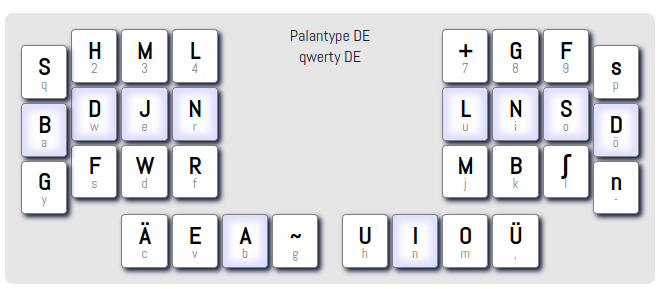
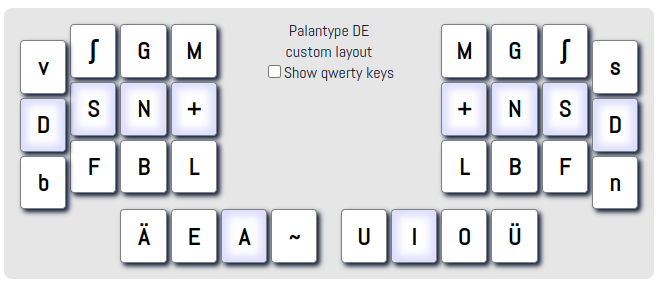
v 0.3.0 with symmetric keyboard layout

diff --git a/plover_palantype_DE/system.py b/plover_palantype_DE/system.py
@@ -3,13 +3,13 @@ from plover.system import english_stenotype
 # cf. https://plover.readthedocs.io/en/4.0.0-dev8/api/system.html
 
 KEYS = (
-    'S-', 'B-', 'G-', 'H-', 'D-', 'F-', 'M-', 'J-', 'W-', 'L-', 'N-', 'R-',
+    'v-', 'D-', 'b-', 'ʃ-', 'S-', 'F-', 'G-', 'N-', 'B-', 'M-', '+-', 'L-',
     'Ä-', 'E-', 'A-', '~-',
     '-U', '-I', '-O', '-Ü',
-    '-+', '-L', '-M', '-G', '-N', '-B', '-F', '-S', '-ʃ', '-s', '-D', '-n'
+    '-M', '-+', '-L', '-G', '-N', '-B', '-ʃ', '-S', '-F', '-s', '-D', '-n'
 )
 
-IMPLICIT_HYPHEN_KEYS = ('R-', 'Ä-', 'E-', 'A-', '~-', '-U', '-I', '-O', '-Ü', '-+')
+IMPLICIT_HYPHEN_KEYS = ('Ä-', 'E-', 'A-', '~-', '-U', '-I', '-O', '-Ü')
 
 SUFFIX_KEYS = ()
 
@@ -28,18 +28,18 @@ ORTHOGRAPHY_WORDLIST = None
 
 KEYMAPS = {
     'Keyboard': {
-        'S-': 'q',
-        'B-': 'a',
-        'G-': 'z',
-        'H-': '2',
-        'D-': 'w',
+        'v-': 'q',
+        'D-': 'a',
+        'b-': 'z',
+        'ʃ-': '2',
+        'S-': 'w',
         'F-': 's',
-        'M-': '3',
-        'J-': 'e',
-        'W-': 'd',
-        'L-': '4',
-        'N-': 'r',
-        'R-': 'f',
+        'G-': '3',
+        'N-': 'e',
+        'B-': 'd',
+        'M-': '4',
+        '+-': 'r',
+        'L-': 'f',
         'Ä-': 'c',
         'E-': 'v',
         'A-': 'b',
@@ -48,15 +48,15 @@ KEYMAPS = {
         '-I': 'n',
         '-O': 'm',
         '-Ü': ',',
-        '-+': '7',
-        '-L': 'u',
-        '-M': 'j',
+        '-M': '7',
+        '-+': 'u',
+        '-L': 'j',
         '-G': '8',
         '-N': 'i',
         '-B': 'k',
-        '-F': '9',
+        '-ʃ': '9',
         '-S': 'o',
-        '-ʃ': 'l',
+        '-F': 'l',
         '-s': 'p',
         '-D': ';',
         '-n': '/',

diff --git a/README.md b/README.md
@@ -54,21 +54,38 @@ Current state
 =====================
 
 The dictionary contains almost 2,000,000 words of the German language.
+There are built-in already some essential features for real-life steno typing:
 
-Apart from `ILNSD` to delete the last input, there are no command keys implemented.
-
-Missing features
----------------------
-
+* fingerspelling
+* command keys (e.g. arrow keys, home, end, ...)
 * numbers
-* arrow keys for navigation
-* implement capitalize last word
-* paragraph (return key)
-* hyphenation of arbitrary words
-* ...
+* special keys
+* plover commands (e.g. retroactively capitalize)
+
+These features are implemented in the dictionary files
+
+* palantype-DE-extra.json, and
+* palantype-DE-numbers.json.
+
 
 Development
 =====================
+
+Source code
+-------------------------
+
+You can find all relevant code on Github:
+
+* The plover plugin [Plover_Palantype_DE](https://github.com/rubenmoor/plover_palantype_de)
+* The palantype Haskell library [mypalantype](https://github.com/rubenmoor/my-palantype)
+* [Palantype tools](https://github.com/rubenmoor/palantype-tools), to create your own palantype-style steno system
+* The code of the project home page with all the tutorials [Palantype.com codebase](https://github.com/rubenmoor/learn-palantype)
+
+You can get an overview of what I am working on, on the [Kanban board of the project](https://github.com/users/rubenmoor/projects/2).
+Feel free to post issues on any of those repositories with questions and/or feedback.
+
+Getting your hands dirty
+--------------------------
 
 Test the plugin locally
 
